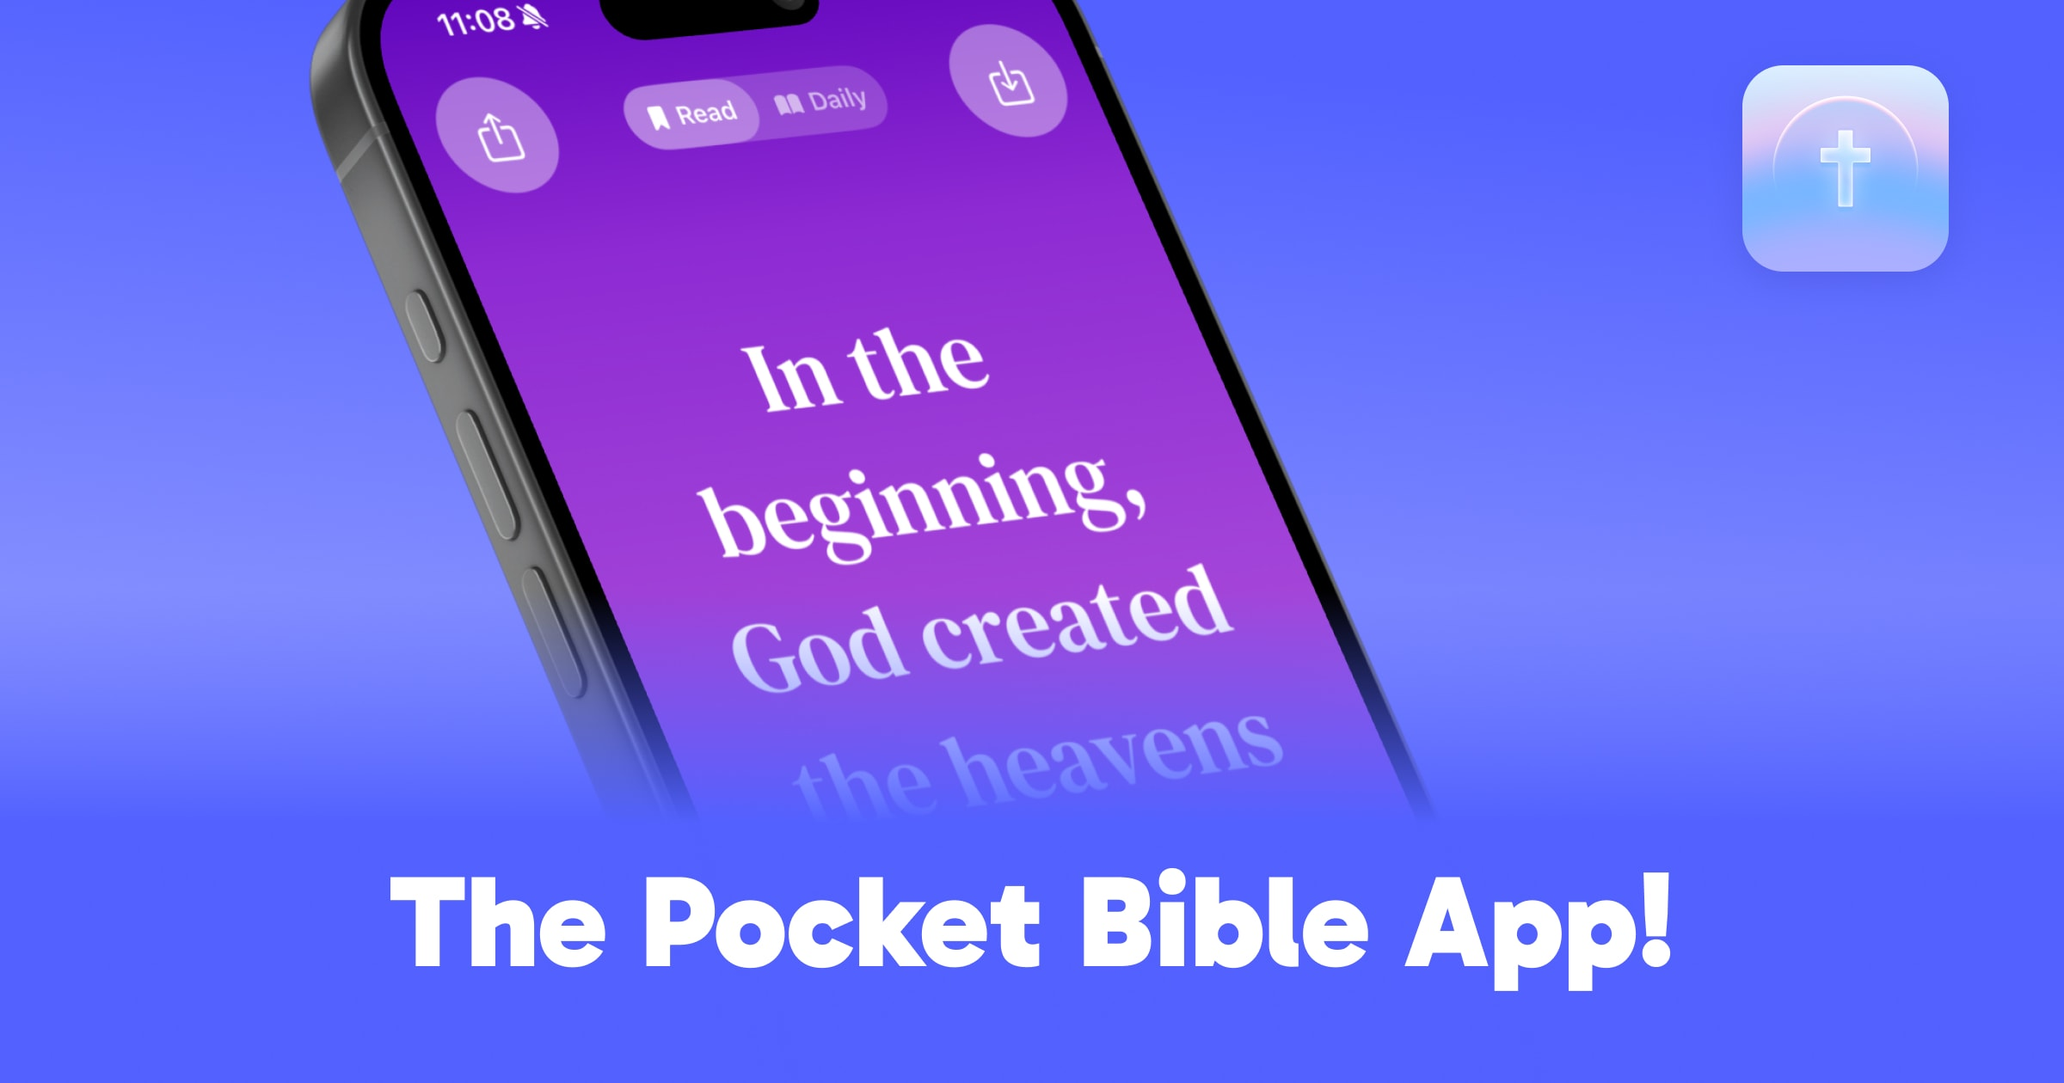
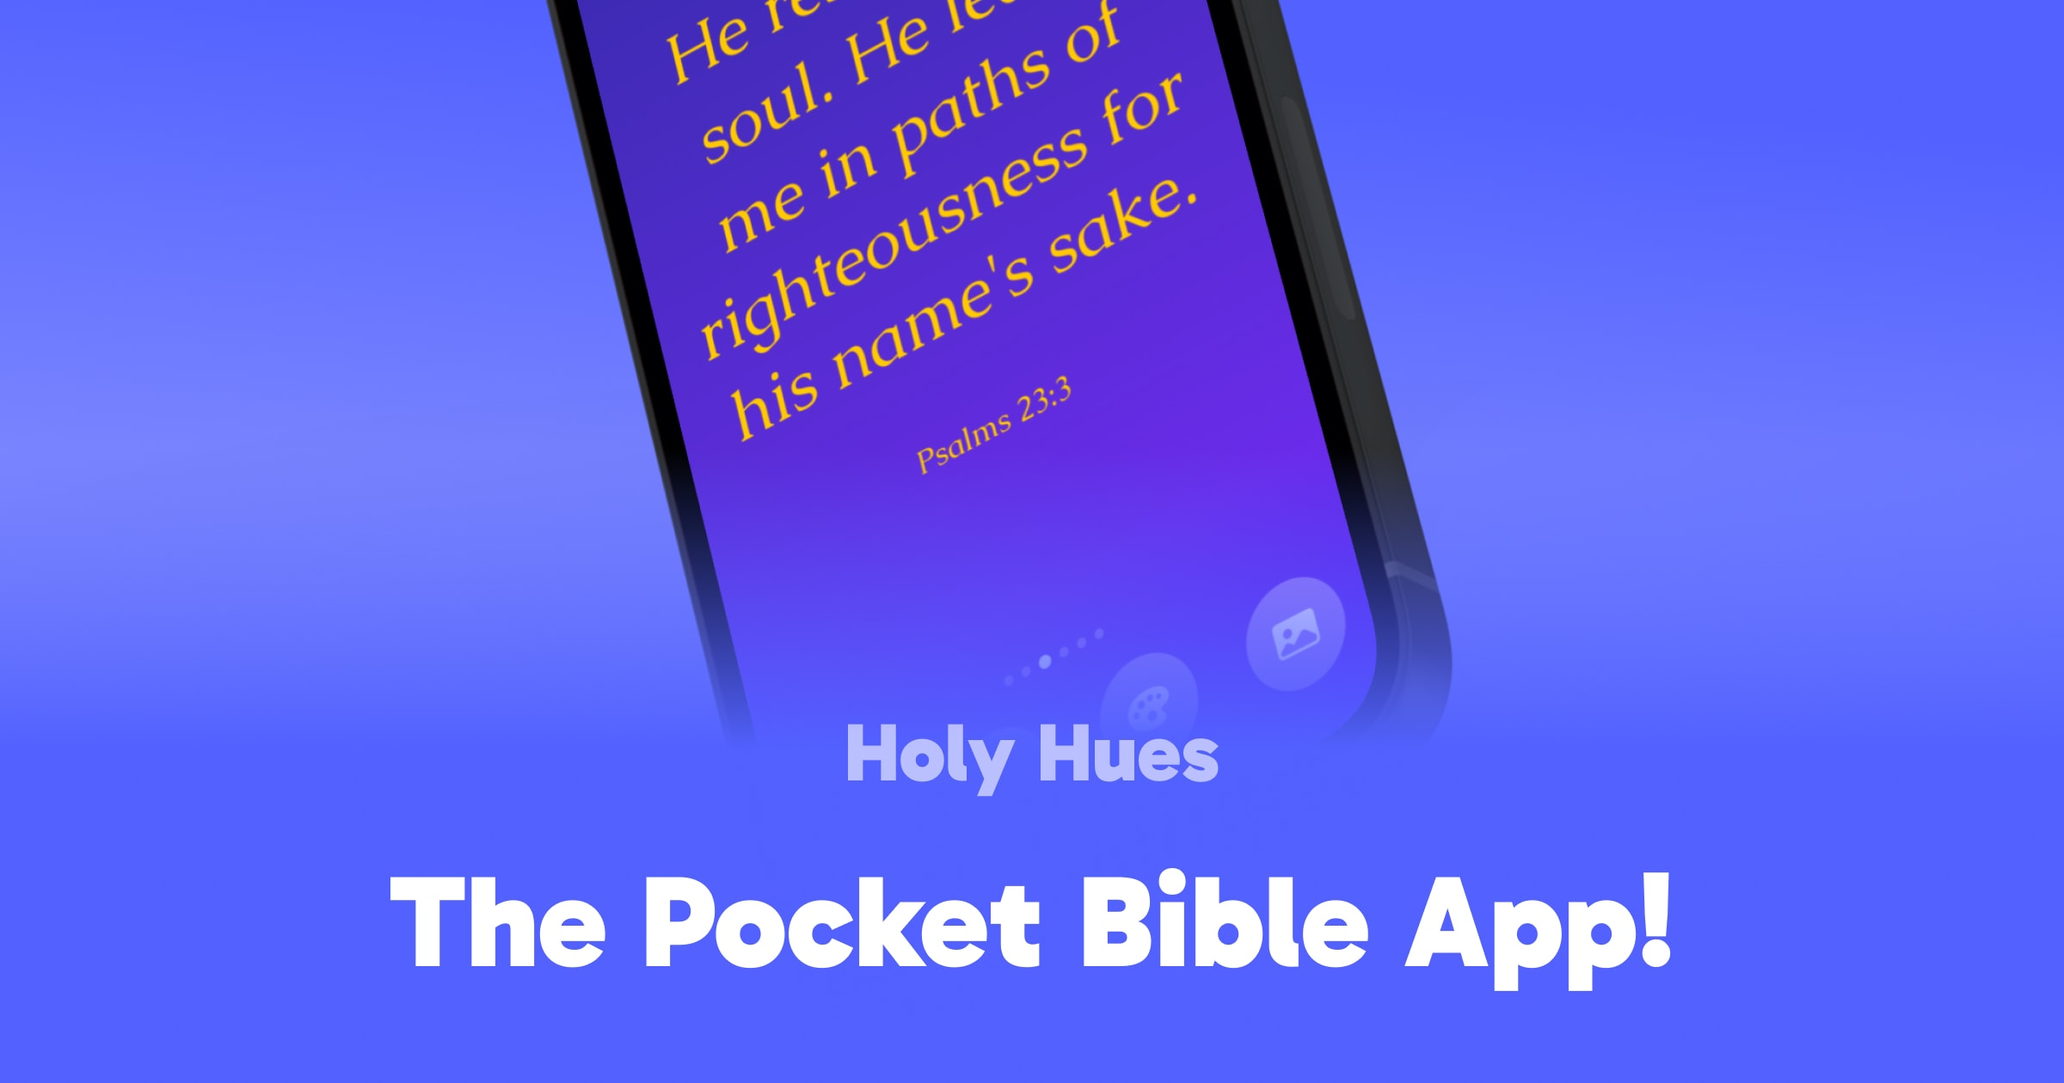
image cycle

diff --git a/_site/assets/css/main.css b/_site/assets/css/main.css
@@ -1,1 +1,1 @@
-@import"https://fonts.googleapis.com/css2?family=Gabarito:wght@400..900&display=swap";:root{--primary-color: rgb(82, 97, 255);--secondary-color: rgb(255, 82, 241);--tertiary-color: rgb(153, 162, 255);--light-color: #dee0e5;--dark-color: #18222f;--soft-light: rgba(255, 255, 255, 0.5);--soft-dark: rgba(0, 0, 0, 0.5);--line-color: white;--font-native: -apple-system, BlinkMacSystemFont, "Segoe UI", Roboto, Oxygen, Ubuntu, Cantarell, "Open Sans", "Helvetica Neue", sans-serif;--font-primary: "Gabarito", sans-serif;--font-secondary: var(--font-native);--font-mono: monospace;--container-width: 800px}*,html{margin:0;padding:0;box-sizing:border-box;-webkit-font-smoothing:antialiased;-moz-osx-font-smoothing:grayscale;text-rendering:optimizeLegibility}::-moz-selection{color:#fff;background:var(--primary-color)}::selection{color:#fff;background:var(--primary-color)}body{font-family:var(--font-primary);font-size:16px;color:#fff;font-weight:400}h1{font-size:2rem;font-weight:700;line-height:1.4em}h2{font-family:var(--font-secondary);font-size:.8rem;font-weight:700;letter-spacing:1.5px;text-transform:uppercase;line-height:1.2em}h3{font-size:1.4rem;font-weight:700;line-height:1.2em}h3 span{opacity:.6}p{line-height:1.4em;font-weight:500}small{font-size:.8rem;font-weight:700}a{transition:all .2s ease-in-out;color:#fff;text-decoration:none;font-weight:700}a:hover,a:focus,a:active{color:hsla(0,0%,100%,.6)}a.button{display:flex;gap:.5rem;align-items:center;background:#000;color:#fff;padding:1rem 2rem;border-radius:.5rem;font-size:1rem;font-weight:700;text-transform:uppercase;letter-spacing:1px}a.button:hover,a.button:focus,a.button:active{background:var(--secondary-color)}@keyframes fade-in{0%{opacity:0;filter:blur(2rem)}100%{opacity:1;filter:blur(0)}}html{overflow:hidden}body{overflow:hidden;padding:env(safe-area-inset-top) env(safe-area-inset-right) env(safe-area-inset-bottom) env(safe-area-inset-left);background:linear-gradient(to bottom, var(--primary-color), var(--tertiary-color))}main{display:flex;flex-direction:column;align-items:center;width:100%;min-height:100vh;position:relative}main:after{content:"";position:fixed;bottom:-25%;left:-25%;width:80vw;height:80vw;border-radius:50%;background:var(--secondary-color);z-index:-4;filter:blur(10rem)}@media(max-width: 600px){main:after{left:-40%;bottom:40%;width:80vh;height:80vh}}.hero{position:fixed;top:50%;left:50%;transform:translate(-50%, -50%);width:80vw;height:80vw;z-index:-3;transition:all .2s ease-in-out;animation:fade-in .8s ease-in-out}@media(max-width: 900px){.hero{width:100vw;height:100vw}}@media(max-width: 768px){.hero{width:120vh;height:120vh;top:40%}}@media(max-width: 600px){.hero{width:100vh;height:100vh;top:30%}}.hero img{width:100%;height:100%;object-fit:cover}section{display:flex;align-items:center;flex-wrap:wrap;gap:2rem;justify-content:space-between;position:fixed;bottom:0;left:50%;transform:translateX(-50%);width:100%;max-width:var(--container-width);z-index:2;padding:2rem;background:linear-gradient(to bottom, rgba(82, 97, 255, 0.8), rgba(153, 162, 255, 0.7));backdrop-filter:blur(1rem);-webkit-backdrop-filter:blur(1rem);border-top-left-radius:2rem;border-top-right-radius:2rem;border:2px solid hsla(0,0%,100%,.4);border-bottom:none;box-shadow:0 -1rem 3rem 0 var(--primary-color);animation:fade-in .4s ease-in-out}@media(max-width: 600px){section{flex-direction:column;align-items:flex-start}}section aside{display:flex;flex-direction:column;align-items:flex-start;gap:.5rem}section aside:first-child{flex:1}.intro{display:flex;align-items:center;gap:1rem}.intro img{width:4rem;height:4rem;object-fit:cover;border-radius:1rem;box-shadow:0 1rem 2rem 0 var(--primary-color)}hr{border:none;border:1px solid hsla(0,0%,100%,.4);width:100%;margin:.5rem 0}/*# sourceMappingURL=main.css.map */
+@import"https://fonts.googleapis.com/css2?family=Gabarito:wght@400..900&display=swap";:root{--primary-color: rgb(82, 97, 255);--secondary-color: rgb(255, 82, 241);--tertiary-color: rgb(153, 162, 255);--light-color: #dee0e5;--dark-color: #18222f;--soft-light: rgba(255, 255, 255, 0.5);--soft-dark: rgba(0, 0, 0, 0.5);--line-color: white;--font-native: -apple-system, BlinkMacSystemFont, "Segoe UI", Roboto, Oxygen, Ubuntu, Cantarell, "Open Sans", "Helvetica Neue", sans-serif;--font-primary: "Gabarito", sans-serif;--font-secondary: var(--font-native);--font-mono: monospace;--container-width: 800px}*,html{margin:0;padding:0;box-sizing:border-box;-webkit-font-smoothing:antialiased;-moz-osx-font-smoothing:grayscale;text-rendering:optimizeLegibility}::-moz-selection{color:#fff;background:var(--primary-color)}::selection{color:#fff;background:var(--primary-color)}body{font-family:var(--font-primary);font-size:16px;color:#fff;font-weight:400}h1{font-size:2rem;font-weight:700;line-height:1.4em}h2{font-family:var(--font-secondary);font-size:.8rem;font-weight:700;letter-spacing:1.5px;text-transform:uppercase;line-height:1.2em}h3{font-size:1.4rem;font-weight:700;line-height:1.2em}h3 span{opacity:.6}p{font-size:1.1rem;line-height:1.4em;font-weight:500}small{font-size:.8rem;font-weight:700}a{transition:all .2s ease-in-out;color:#fff;text-decoration:none;font-weight:700}a:hover,a:focus,a:active{color:hsla(0,0%,100%,.6)}a.button{display:flex;gap:.5rem;align-items:center;background:#000;color:#fff;padding:1rem 2rem;border-radius:999px;font-size:1rem;font-weight:700;text-transform:uppercase;letter-spacing:1px}a.button:hover,a.button:focus,a.button:active{background:var(--secondary-color)}@keyframes fade-in{0%{opacity:0;filter:blur(2rem)}100%{opacity:1;filter:blur(0)}}html{overflow:hidden}body{overflow:hidden;padding:env(safe-area-inset-top) env(safe-area-inset-right) env(safe-area-inset-bottom) env(safe-area-inset-left);background:linear-gradient(to bottom, var(--primary-color), var(--tertiary-color))}main{display:flex;flex-direction:column;align-items:center;width:100%;min-height:100vh;position:relative}main:before{content:"";position:fixed;top:0;left:0;width:100%;height:10rem;background:linear-gradient(to bottom, var(--primary-color), transparent);z-index:-1}main:after{content:"";position:fixed;bottom:-25%;left:-25%;width:80vw;height:80vw;border-radius:50%;background:var(--secondary-color);z-index:-4;filter:blur(10rem)}@media(max-width: 600px){main:after{left:-40%;bottom:40%;width:80vh;height:80vh}}.hero{position:fixed;top:50%;left:50%;transform:translate(-50%, -50%);width:80vw;height:80vw;z-index:-3;transition:all .2s ease-in-out;animation:fade-in .8s ease-in-out}@media(max-width: 900px){.hero{width:100vw;height:100vw}}@media(max-width: 768px){.hero{width:120vh;height:120vh;top:40%}}@media(max-width: 600px){.hero{width:130vh;height:130vh;top:30%}}.hero img{width:100%;height:100%;object-fit:cover}section{transition:all .2s ease-in-out;display:flex;align-items:center;flex-wrap:wrap;gap:2rem;justify-content:space-between;position:fixed;bottom:0;left:50%;transform:translateX(-50%);width:100%;max-width:var(--container-width);z-index:2;padding:2rem;background:linear-gradient(to bottom, rgba(82, 97, 255, 0.8), rgba(153, 162, 255, 0.7));backdrop-filter:blur(1rem);-webkit-backdrop-filter:blur(1rem);border-top-left-radius:2rem;border-top-right-radius:2rem;border-bottom:none;box-shadow:inset 0 2px 4px 0 #fff,inset 0 2rem 2rem 0 var(--tertiary-color),0 -1rem 3rem 0 var(--primary-color);animation:fade-in .4s ease-in-out}section:hover{padding-bottom:4rem}@media(max-width: 600px){section{flex-direction:column;align-items:flex-start}}section aside{display:flex;flex-direction:column;align-items:flex-start;gap:.5rem}section aside:first-child{flex:1}section aside div{display:flex;align-items:center;gap:1rem}section aside div img{width:4rem;height:4rem;object-fit:cover;border-radius:1rem;box-shadow:0 1rem 2rem 0 var(--primary-color)}hr{border:none;border:1px solid hsla(0,0%,100%,.4);width:100%;margin:.5rem 0}/*# sourceMappingURL=main.css.map */

diff --git a/_layouts/default.html b/_layouts/default.html
@@ -7,21 +7,25 @@
     <!-- Primary Meta Tags -->
     <title>{{ page.title }} - {{ page.description }}</title>
     <meta name="title" content="{{ page.title }} - {{ page.description }}">
-    <meta name="description" content="Holy Hues is your pocket Bible with a creative twist. Browse verses with intuitive swipes, explore multiple translations, and create beautiful verse wallpapers.">
-    <meta name="keywords" content="bible app, daily bible verse, christian app, scripture wallpapers, holy hues, bible study tool, pocket bible, bible verses, inspirational verses, custom bible backgrounds, bible with fonts, creative bible, bible translations app, kjv bible, niv bible, bible wallpapers, christian wallpapers, bible quotes app, daily scripture, bible with customization, share bible verses, bible app with colors, bible chapters, bible with gradients, bible inspiration app, christian daily devotion, bible reading app, mobile bible, faith app, bible on the go, personalized scripture">
+    <meta name="description" content="{{ site.description }}">
+    <meta name="keywords" content="{{ site.keywords }}">
     
     <!-- Open Graph / Facebook -->
     <meta property="og:type" content="website">
     <meta property="og:url" content="{{ site.url }}{{ page.url }}">
     <meta property="og:title" content="{{ page.title }}">
-    <meta property="og:description" content="Holy Hues is your pocket Bible with a creative twist. Browse verses with intuitive swipes, explore multiple translations, and create beautiful verse wallpapers.">
+    <meta property="og:description" content="{{ site.description }}">
     <meta property="og:image" content="{{ site.url }}/assets/images/og.jpg">
+    <meta property="og:image:type" content="image/jpeg">
+    <meta property="og:image:width" content="1200">
+    <meta property="og:image:height" content="630">
+    <meta property="og:image:alt" content="Holy Hues - Your pocket Bible with a creative twist">
     
     <!-- Twitter -->
     <meta property="twitter:card" content="summary_large_image">
     <meta property="twitter:url" content="{{ site.url }}{{ page.url }}">
     <meta property="twitter:title" content="{{ page.title }}">
-    <meta property="twitter:description" content="Holy Hues is your pocket Bible with a creative twist. Browse verses with intuitive swipes, explore multiple translations, and create beautiful verse wallpapers.">
+    <meta property="twitter:description" content="{{ site.description }}">
     <meta property="twitter:image" content="{{ site.url }}/assets/images/og.jpg">
     
     <!-- iOS Meta Tags -->
@@ -49,5 +53,6 @@
         {{ content }}
     </main>
     
+    <script src="{{ site.baseurl }}/assets/js/script.js"></script>
 </body>
 </html> 

diff --git a/_sass/_layout.scss b/_sass/_layout.scss
@@ -17,6 +17,17 @@ main {
     min-height: 100vh;
     position: relative;
 
+    &:before {
+        content: "";
+        position: fixed;
+        top: 0;
+        left: 0;
+        width: 100%;
+        height: 10rem;
+        background: linear-gradient(to bottom, var(--primary-color), transparent);
+        z-index: -1;
+    }
+
     &:after {
         content: "";
         position: fixed;
@@ -61,8 +72,8 @@ main {
     }
 
     @media (max-width: 600px) {
-        width: 100vh;
-        height: 100vh;
+        width: 130vh;
+        height: 130vh;
         top: 30%;
     }
 
@@ -74,6 +85,7 @@ main {
 }
 
 section {
+    transition: all 0.2s ease-in-out;
     display: flex;
     align-items: center;
     flex-wrap: wrap;
@@ -92,10 +104,16 @@ section {
     -webkit-backdrop-filter: blur(1rem);
     border-top-left-radius: 2rem;
     border-top-right-radius: 2rem;
-    border: 2px solid rgba(255, 255, 255, 0.4);
     border-bottom: none;
-    box-shadow: 0 -1rem 3rem 0 var(--primary-color);
+    box-shadow: 
+        inset 0 2px 4px 0 white,
+        inset 0 2rem 2rem 0 var(--tertiary-color),
+        0 -1rem 3rem 0 var(--primary-color);
     animation: fade-in 0.4s ease-in-out;
+
+    &:hover {
+        padding-bottom: 4rem;
+    }
 
     @media (max-width: 600px) {
         flex-direction: column;
@@ -111,20 +129,20 @@ section {
         &:first-child {
             flex: 1;
         }
-    }
-}
 
-.intro {
-    display: flex;
-    align-items: center;
-    gap: 1rem;
-
-    img {
-        width: 4rem;
-        height: 4rem;
-        object-fit: cover;
-        border-radius: 1rem;
-        box-shadow: 0 1rem 2rem 0 var(--primary-color);
+        div {
+            display: flex;
+            align-items: center;
+            gap: 1rem;
+        
+            img {
+                width: 4rem;
+                height: 4rem;
+                object-fit: cover;
+                border-radius: 1rem;
+                box-shadow: 0 1rem 2rem 0 var(--primary-color);
+            }
+        }
     }
 }
 

diff --git a/_site/assets/js/script.js b/_site/assets/js/script.js
@@ -1,0 +1,65 @@
+document.addEventListener('DOMContentLoaded', function() {
+    const heroImage = document.querySelector('.hero img');
+    if (!heroImage) return;
+    
+    let availableImages = [];
+    let preloadedImages = [];
+    let currentIndex = 0;
+    let imagesLoaded = 0;
+    
+    // Detect available hero images based on naming pattern
+    function detectHeroImages() {
+        let imageIndex = 1;
+        
+        function checkNextImage() {
+            const img = new Image();
+            const path = `/assets/images/hero-${imageIndex}.png`;
+            
+            img.onload = () => {
+                availableImages.push(path);
+                preloadedImages.push(img);
+                imageIndex++;
+                
+                // Continue checking for the next image
+                checkNextImage();
+            };
+            
+            img.onerror = () => {
+                // Stop checking when we hit the first missing image
+                if (availableImages.length > 1) {
+                    startCycling();
+                }
+            };
+            
+            img.src = path;
+        }
+        
+        // Start checking from hero-1.png
+        checkNextImage();
+    }
+    
+    function cycleImages() {
+        // Fade out
+        heroImage.style.opacity = '0';
+        
+        setTimeout(() => {
+            // Change image source using preloaded image
+            currentIndex = (currentIndex + 1) % availableImages.length;
+            heroImage.src = preloadedImages[currentIndex].src;
+            
+            // Fade in
+            heroImage.style.opacity = '1';
+        }, 300); // Wait for fade out to complete
+    }
+    
+    function startCycling() {
+        // Set initial transition
+        heroImage.style.transition = 'opacity 0.3s ease-in-out';
+        
+        // Start cycling every 3 seconds
+        setInterval(cycleImages, 3000);
+    }
+    
+    // Start detecting and preloading images
+    detectHeroImages();
+});

diff --git a/assets/js/script.js b/assets/js/script.js
@@ -1,0 +1,65 @@
+document.addEventListener('DOMContentLoaded', function() {
+    const heroImage = document.querySelector('.hero img');
+    if (!heroImage) return;
+    
+    let availableImages = [];
+    let preloadedImages = [];
+    let currentIndex = 0;
+    let imagesLoaded = 0;
+    
+    // Detect available hero images based on naming pattern
+    function detectHeroImages() {
+        let imageIndex = 1;
+        
+        function checkNextImage() {
+            const img = new Image();
+            const path = `/assets/images/hero-${imageIndex}.png`;
+            
+            img.onload = () => {
+                availableImages.push(path);
+                preloadedImages.push(img);
+                imageIndex++;
+                
+                // Continue checking for the next image
+                checkNextImage();
+            };
+            
+            img.onerror = () => {
+                // Stop checking when we hit the first missing image
+                if (availableImages.length > 1) {
+                    startCycling();
+                }
+            };
+            
+            img.src = path;
+        }
+        
+        // Start checking from hero-1.png
+        checkNextImage();
+    }
+    
+    function cycleImages() {
+        // Fade out
+        heroImage.style.opacity = '0';
+        
+        setTimeout(() => {
+            // Change image source using preloaded image
+            currentIndex = (currentIndex + 1) % availableImages.length;
+            heroImage.src = preloadedImages[currentIndex].src;
+            
+            // Fade in
+            heroImage.style.opacity = '1';
+        }, 300); // Wait for fade out to complete
+    }
+    
+    function startCycling() {
+        // Set initial transition
+        heroImage.style.transition = 'opacity 0.3s ease-in-out';
+        
+        // Start cycling every 3 seconds
+        setInterval(cycleImages, 3000);
+    }
+    
+    // Start detecting and preloading images
+    detectHeroImages();
+});

diff --git a/_site/index.html b/_site/index.html
@@ -16,6 +16,10 @@
     <meta property="og:title" content="Holy Hues">
     <meta property="og:description" content="Holy Hues is your pocket Bible with a creative twist. Browse verses with intuitive swipes, explore multiple translations, and create beautiful verse wallpapers.">
     <meta property="og:image" content="http://localhost:4000/assets/images/og.jpg">
+    <meta property="og:image:type" content="image/jpeg">
+    <meta property="og:image:width" content="1200">
+    <meta property="og:image:height" content="630">
+    <meta property="og:image:alt" content="Holy Hues - Your pocket Bible with a creative twist">
     
     <!-- Twitter -->
     <meta property="twitter:card" content="summary_large_image">
@@ -48,16 +52,14 @@
         </div>
         <section>
     <aside>
-        <div class="intro">
+        <div>
             <img src="/assets/images/logo.png" alt="Holy Hues" />
             <h3>
                 Holy Hues <span>is your pocket Bible with a creative twist.</span> 
             </h3>
         </div>
         <hr>
-        <p>
-            Swipe through verses with ease, explore multiple translations, and make Scripture your own with custom fonts, colors, and backgrounds. 
-        </p>
+        <p>Swipe through verses with ease, explore multiple translations, and make Scripture your own with custom fonts, colors, and backgrounds, all designed to inspire and fit your unique style.</p>
     </aside>
     <aside>
         <a href="https://apps.apple.com/us/app/holy-hues/id6740889386" class="button"><i class="fa-brands fa-apple"></i> Get the App</a>
@@ -65,5 +67,6 @@
 </section>
     </main>
     
+    <script src="/assets/js/script.js"></script>
 </body>
 </html> 

diff --git a/index.html b/index.html
@@ -6,16 +6,14 @@ description: Your pocket Bible with a creative twist.
 
 <section>
     <aside>
-        <div class="intro">
+        <div>
             <img src="/assets/images/logo.png" alt="Holy Hues" />
             <h3>
                 Holy Hues <span>is your pocket Bible with a creative twist.</span> 
             </h3>
         </div>
         <hr>
-        <p>
-            Swipe through verses with ease, explore multiple translations, and make Scripture your own with custom fonts, colors, and backgrounds. 
-        </p>
+        <p>Swipe through verses with ease, explore multiple translations, and make Scripture your own with custom fonts, colors, and backgrounds, all designed to inspire and fit your unique style.</p>
     </aside>
     <aside>
         <a href="https://apps.apple.com/us/app/holy-hues/id6740889386" class="button"><i class="fa-brands fa-apple"></i> Get the App</a>

diff --git a/_site/404.html b/_site/404.html
@@ -16,6 +16,10 @@
     <meta property="og:title" content="404">
     <meta property="og:description" content="Holy Hues is your pocket Bible with a creative twist. Browse verses with intuitive swipes, explore multiple translations, and create beautiful verse wallpapers.">
     <meta property="og:image" content="http://localhost:4000/assets/images/og.jpg">
+    <meta property="og:image:type" content="image/jpeg">
+    <meta property="og:image:width" content="1200">
+    <meta property="og:image:height" content="630">
+    <meta property="og:image:alt" content="Holy Hues - Your pocket Bible with a creative twist">
     
     <!-- Twitter -->
     <meta property="twitter:card" content="summary_large_image">
@@ -56,5 +60,6 @@
 </section>
     </main>
     
+    <script src="/assets/js/script.js"></script>
 </body>
 </html> 

diff --git a/_sass/_typography.scss b/_sass/_typography.scss
@@ -32,6 +32,7 @@ h3 {
 }
 
 p {
+    font-size: 1.1rem;
     line-height: 1.4em;
     font-weight: 500;
 }
@@ -60,7 +61,7 @@ a {
         background: black;
         color: white;
         padding: 1rem 2rem;
-        border-radius: 0.5rem;
+        border-radius: 999px;
         font-size: 1rem;
         font-weight: 700;
         text-transform: uppercase;
